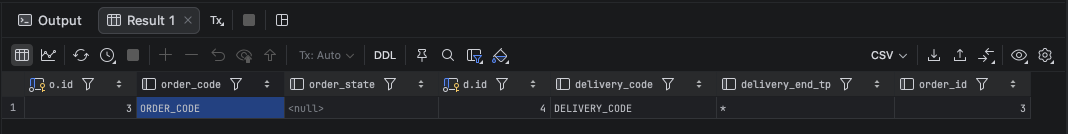
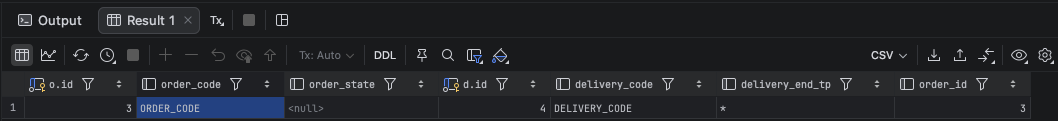
Change 이미지 사이즈 변경

diff --git a/_posts/2021/2021-08-17-async-in-spring-application-context-event.md b/_posts/2021/2021-08-17-async-in-spring-application-context-event.md
@@ -254,8 +254,8 @@ FROM tb_order o
 INNER JOIN tb_delivery d ON o.id = d.order_id;
 ```
 
-<div align="left">
-  <img src="/images/posts/2021/async-spring-application-context-event-01.png" width="80%">
+<div align="center">
+  <img src="/images/posts/2021/async-spring-application-context-event-01.png" width="100%" class="image__border">
 </div>
 
 #### TEST CODE REPOSITORY
